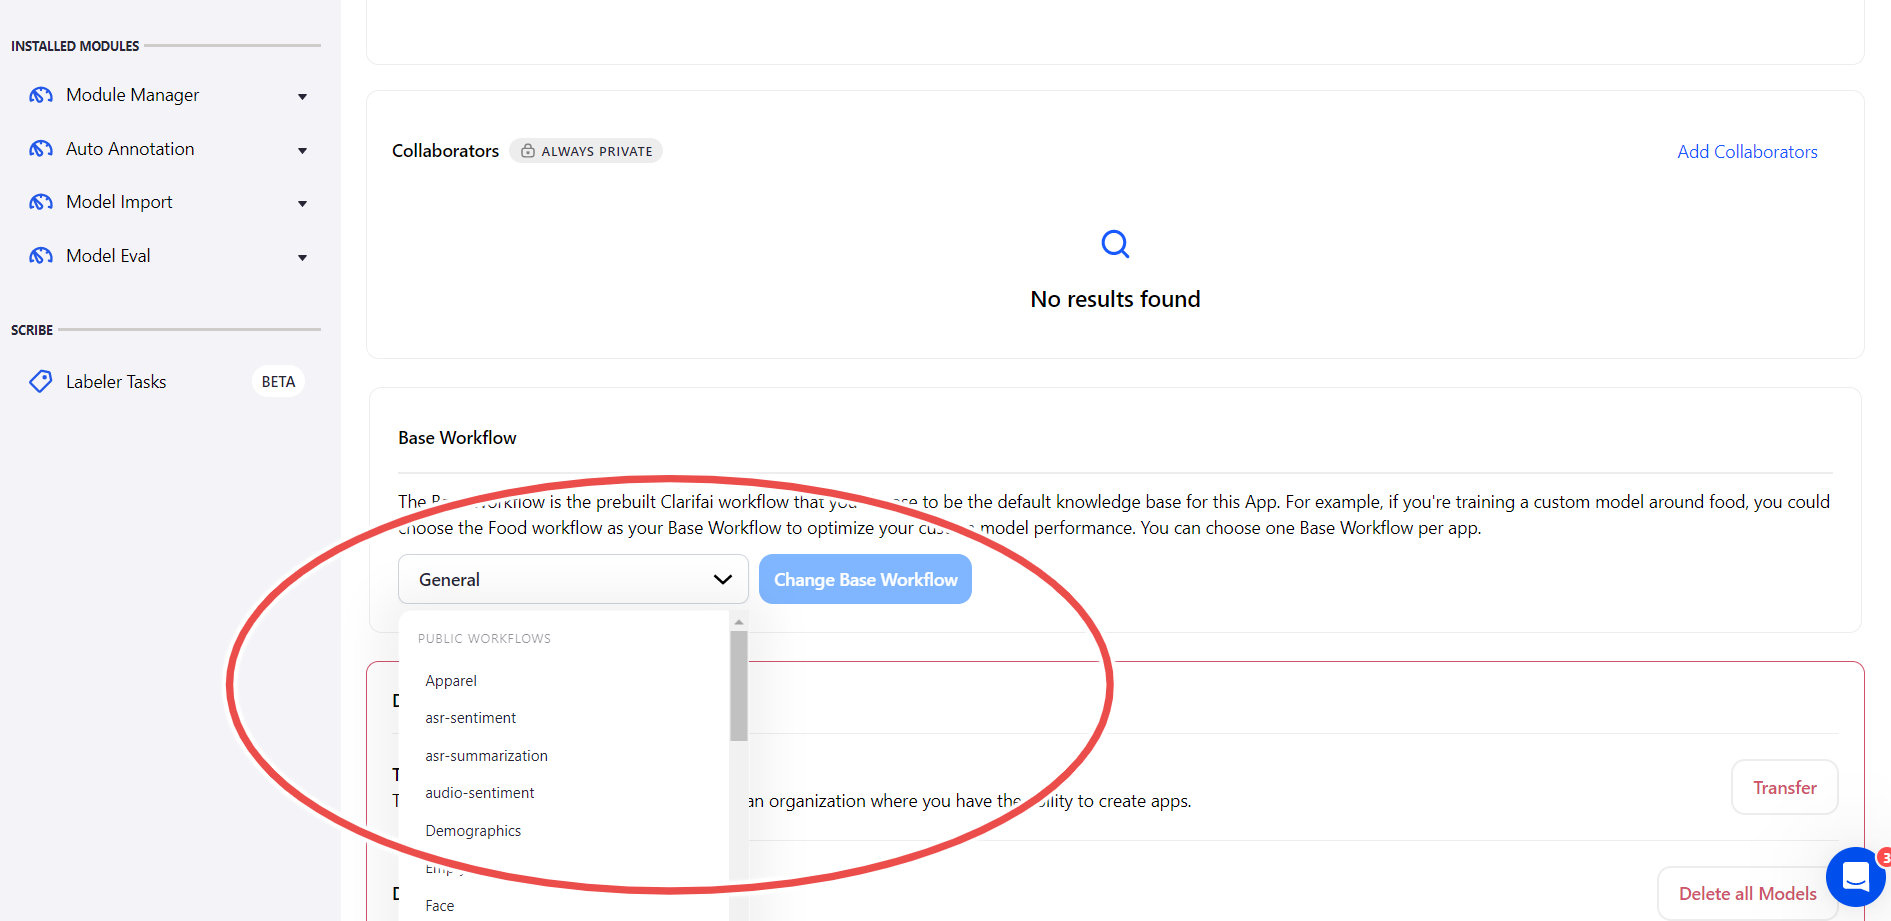
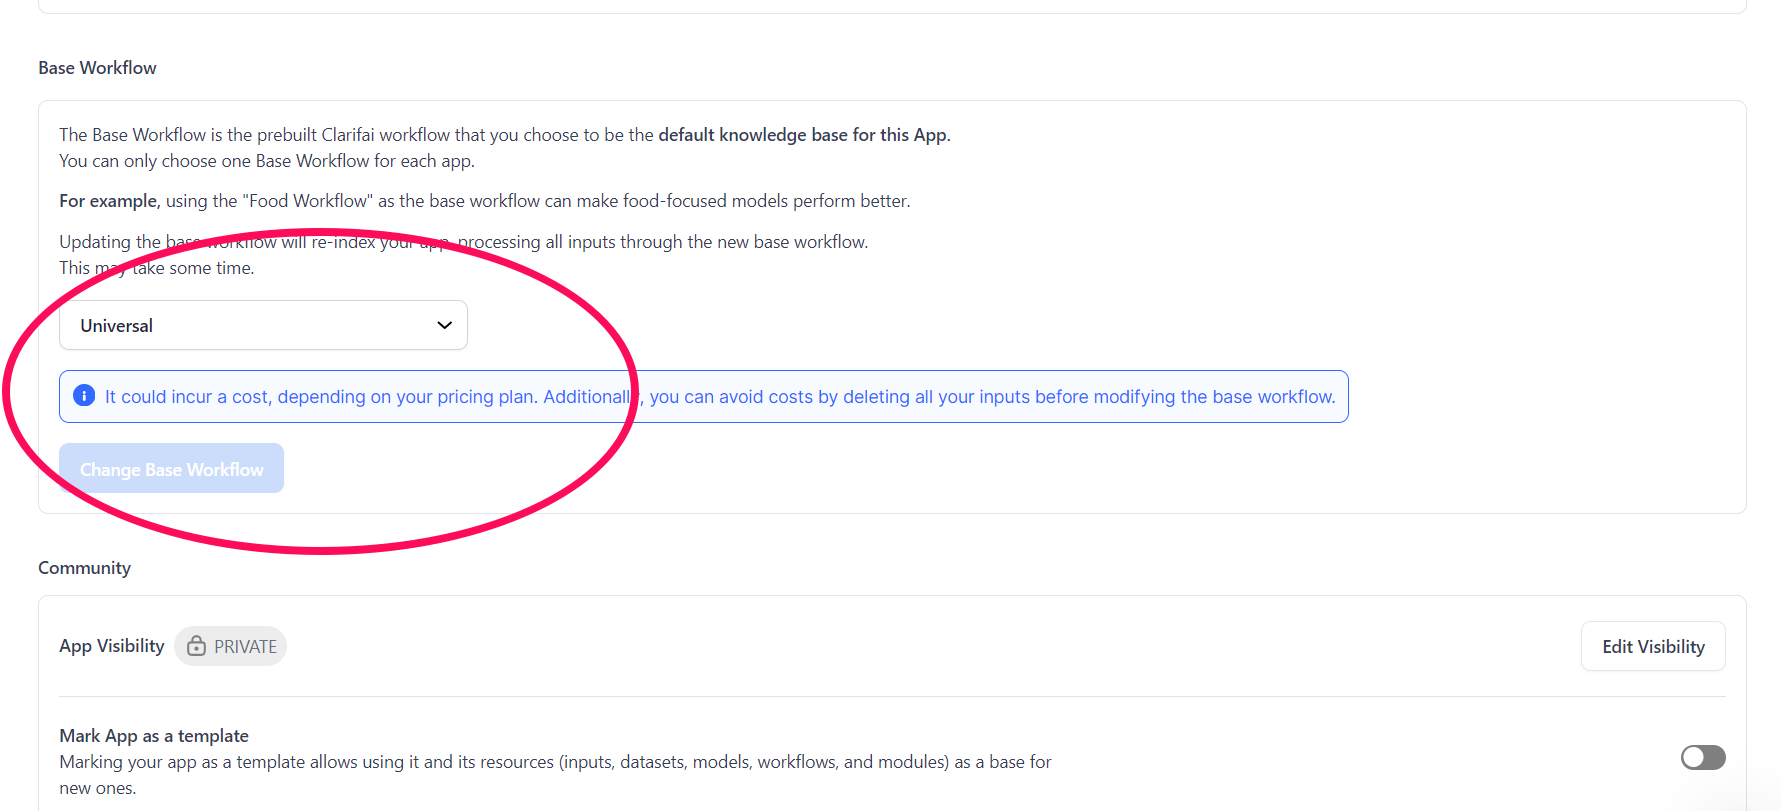
updated several pages

diff --git a/docs/clarifai-basics/applications/application-settings.md b/docs/clarifai-basics/applications/application-settings.md
@@ -1,12 +1,39 @@
 ---
-description: How to change the settings of an application
+description: How to view and change the settings of an application
 sidebar_position: 2
 ---
 
-# Application Settings
+# App Overview and Settings
 
-**How to change an application's settings**
+**View and change an application's settings**
 <hr />
+
+## App Overview
+
+The App Overview page gives a glimpse of your app and its purpose. To access it, go to your application's individual page and select the **Overview** option on the collapsible left sidebar.
+
+You'll be redirected to a page that gives an overview of the contents of your app. 
+
+![app overview](/img/app_overview_page.png)
+
+You can accomplish various tasks on that page. 
+
+-   Click the pencil icon next to the app ID to change it. 
+-	Click the **Edit Visibility** button at the upper-right corner to edit the visibility of your app to either public or private.
+-	Click the star icon at the upper-right corner to highlight your app. This marks it as a favorite and makes it easier to access among other listed apps. 
+-	Click the three dots at the upper-right corner to reveal a drop-down list that lets you duplicate the app, copy its ID, or delete it.
+-	View the number of each type of resource contained in your app—inputs, datasets, models, workflows, and modules. If the number is large and has been truncated in the display, click on the tooltip (?) to reveal the precise count of the resource.   
+- Click the plus icon (**+**) within any resource type section to add the resource to your app. If you click the button, you’ll be redirected to a subsequent page that allows you to add the resource you want. 
+- Click the "view" link within any resource type section to view all the respective resources available in your app.
+-	Add notes that describe what your app is about. 
+-	Upload a cover image and use it as a reference for the app. 
+-	Edit the app’s description.
+-	View the app’s base workflow, last updated date, and default language.
+-	Copy the app's URL and share it across various platforms and social media channels for wider visibility and reach.
+-	View the types of models contained in the app.
+-	View and edit the [collaborators](https://docs.clarifai.com/clarifai-basics/applications/collaboration) associated with the app. 
+
+## App Settings
 
 You can change the settings of an application at any time. To do so, go to the application's individual page and select the **Settings** option on the collapsible left sidebar.
 
@@ -22,9 +49,9 @@ This page has intuitive elements that let you search for specific items and sort
 
 :::
 
-## API Keys
+### API Keys
 
-### Create API Keys
+#### Create API Keys
 
 Click the **Create API Key** button to add a new API key to your app. Then, use the form that pops up to generate a new API key—provide a short description, select the scopes, and click the **Confirm** button. 
 
@@ -32,33 +59,33 @@ Click the **Create API Key** button to add a new API key to your app. Then, use 
 
 The new [app-specific key](https://docs.clarifai.com/clarifai-basics/authentication/app-specific-api-keys) will be listed in the **API Keys** section, where you can carry out various management tasks on it. 
 
-### Copy an API Key
+#### Copy an API Key
 
 You can copy an API key to the clipboard by clicking the copy button.
 
 ![copy an api key](/img/application_settings_2.png)
 
-### Show an API Key
+#### Show an API Key
 
 You can reveal an API key by clicking the show button. You can also hide it by clicking the same button. 
 
 ![show api key](/img/application_settings_3.png)
 
-### Edit an API Key
+#### Edit an API Key
 
 You can edit an API key by clicking the edit button. A form will pop up that allows you to update the description and scopes of your API key. 
 
 ![edit an api key](/img/application_settings_4.png)
 
-### Delete an API Key
+#### Delete an API Key
 
 You can delete an API key by clicking the delete button.
 
 ![delete an api key](/img/application_settings_5.png)
 
-## Collaborators
+### Collaborators
 
-### Add Collaborators
+#### Add Collaborators
 
 To add a collaborator to your app, click the **Add Collaborators** button. Then, use the form that pops up to invite a collaborator—provide an email address associated with their Clarifai account, select the scopes, and click the **Confirm** button. 
 
@@ -70,19 +97,19 @@ The collaborator you want to invite must have a registered account on the Clarif
 
 ![add a collaborator](/img/application_settings_6.png)
 
-### Delete a Collaborator
+#### Delete a Collaborator
 
 You can remove a collaborator by clicking the delete button.
 
 ![delete a collaborator](/img/application_settings_7.png)
 
-## Base Workflow
+### Base Workflow
 
-A Base Workflow is the workflow you choose as the default knowledge base when creating an application. It optimizes your custom model performance.
+A base workflow is the workflow you choose as the default knowledge base when creating an application. It optimizes your custom model performance.
 
 You can change your app's base workflow by selecting another one from the list that drops down when you click the workflows search box. You can choose public workflows or workflows you've created in your app. 
 
-:::info
+:::note
 
 Updating the base workflow will re-index your app, processing all inputs through the new base workflow. This may take some time, and could incur costs. You could avoid the costs by deleting all your inputs before updating the base workflow.
 
@@ -92,19 +119,25 @@ After selecting your preferred Base Workflow, click the **Change Base Workflow**
 
 ![change base workflow](/img/application_settings_8.png) 
 
+:::info
+
+[Click here](https://docs.clarifai.com/portal-guide/workflows/base-workflows) to learn more about the base workflow functionality. 
+
+:::
+
 :::warning
 
 Performing any of the actions below is dangerous. So, you need to proceed with caution. 
 
 :::
 
-## Update Visibility
+### Update Visibility
 
 You can easily toggle your app's visibility between private and public modes by clicking the **Update Visibility** button.
 
 ![update visibility](/img/application_settings_update_visibility.png) 
 
-## Delete Application
+### Delete Application
 
 You can delete the application by clicking the **Delete App** button. A small window will pop up, prompting you to confirm the action. 
 
@@ -112,13 +145,13 @@ You can delete the application by clicking the **Delete App** button. A small wi
 
 Remember that once you delete an application, we cannot recover it. You will also lose all images, concepts, models, and other resources associated with that application. 
 
-## Delete all Models
+### Delete all Models
 
 You can delete all models by clicking the **Delete all Models** button. A small window will pop up, prompting you to confirm the action. 
 
 ![delete all models](/img/application_settings_10.png)
 
-## Transfer Application
+### Transfer Application
 
 You can transfer your application to an [organization](https://docs.clarifai.com/portal-guide/clarifai-organizations/) you belong to and have permission to create apps. This would greatly enhance collaboration and boost your productivity.
 

diff --git a/docs/portal-guide/workflows/base-workflows.md b/docs/portal-guide/workflows/base-workflows.md
@@ -10,18 +10,39 @@ sidebar_position: 3
 **Base workflows index your data and provide your app with a default knowledge base**
 <hr />
 
-The Base Workflow includes one pre-built Clarifai model that provides the basic structure for indexing your data. The Base Workflow gives you a "head start" when working with your data—by pre-indexing your inputs for search and by providing a default embedding for your custom models. Your base workflow is what makes your data sortable and searchable as soon as it is uploaded. 
+The base workflow acts as the default knowledge base for your app and provides the basic structure for indexing your data. It gives you a "head start" when working with your data—by pre-indexing your inputs for search and by providing a default embedding for your custom models.
 
-Choose a base workflow that you can build upon to create a custom solution. For example, if you're training a custom model around food, you could choose the Food model as your Base Workflow to optimize your custom model performance.
+## How it works
 
-You can choose one Base Workflow per app, and you can also change your base workflow once your app is created. 
+Your base workflow makes your data sortable and searchable as soon as it is uploaded. When you add an input to your app, the base workflow of your app computes the outputs from the model(s) in that workflow and indexes those outputs.
+
+Those indexed outputs enable search and transfer-learn based training on top of the base workflow model(s).
+
+## How to choose a base workflow
+
+You should go for a workflow that optimizes your custom model performance. For example, if you're training a custom model around food, you could choose the **Food** model as your **Base Workflow** to yield better results.
+
+You can choose a base workflow when [creating a new application](https://docs.clarifai.com/clarifai-basics/applications/create-an-application/). After selecting the primary input type for your app, the base workflow will be automatically selected for you—within the collapsible **Advanced Settings** field. 
+
+Alternatively, you can select the one that aligns most with your specific use case from the dropdown list accessible when you click the workflows search box.
 
 ![choose base workflow](/img/community_2/base_workflow_choose.png)
 
-You can change it on the **App Settings** page. 
+## How to change a base workflow
+
+You can also change the base workflow once your app is created. You can choose public workflows or workflows you've created in your app. 
+
+To change it, go to your [**App Settings**](https://docs.clarifai.com/clarifai-basics/applications/application-settings#base-workflow) page and select the one you prefer from the list that drops down when you click the workflows search box. 
+
+After selecting your preferred base workflow, click the **Change Base Workflow** button.
+
+:::note
+
+Updating the base workflow will re-index your app, processing all inputs through the new base workflow. This may take some time, and could incur costs. You could avoid the costs by deleting all your inputs before updating the base workflow.
+
+:::
 
 ![change base workflow](/img/community_2/base_workflow_change.png)
-
 
 
 

diff --git a/docs/api-guide/predict/llms.md b/docs/api-guide/predict/llms.md
@@ -20,6 +20,9 @@ The initialization code used in the following examples is outlined in detail on 
 
 :::tip
 
+<!--- [Click here]( https://docs.google.com/document/d/1JnZqqSeXpKFH4zh-go0udtUslXTqpPg0y-uUZExGa-E/edit#heading=h.msg9apiqll5r) to explore a list of LLM models available on the Clarifai Community platform. It's important to distinguish between Clarifai-hosted models, which we host within our Clarifai Cloud, and wrapped models, which are hosted externally but we deploy them on our platform using third-party API keys. When utilizing a wrapped model, your user data is transmitted to the third-party provider in addition to our own data. There are also differentiating pricing structures we employ for these two types of models. 
+-->
+
 For the third-party models we've wrapped into our platform, like those provided by OpenAI, Anthropic, Cohere, and others, you can also choose to utilize their API keys as an option—in addition to using the default Clarifai keys. You can learn how to add them [here](https://docs.clarifai.com/api-guide/predict/text#use-third-party-api-keys). 
 
 :::

diff --git a/docs/api-guide/model/custom-text-model-walkthrough.md b/docs/api-guide/model/custom-text-model-walkthrough.md
@@ -24,7 +24,7 @@ For debugging purposes, each response returned by a method call can be printed t
 
 ## Create a New Application
 
-The first step is manual. In the Clarifai Portal, [create a new application](https://docs.clarifai.com/clarifai-basics/applications/create-an-application) with **Text/Document** selected as the primary input type. The Base Workflow will be automatically selected for you. 
+The first step is manual. In the Clarifai Portal, [create a new application](https://docs.clarifai.com/clarifai-basics/applications/create-an-application) with **Text/Document** selected as the primary input type. The [Base Workflow](https://docs.clarifai.com/portal-guide/workflows/base-workflows/) will be automatically selected for you. 
 
 <!--
 ![](https://s3.amazonaws.com/clarifai-api/img3/prod/large/e12ce254f2824b0ab2aef1b10784ff23/3e695b780f597cd263b06d0aeb30b3d1?v=001)

diff --git a/docs/portal-guide/portal-overview.md b/docs/portal-guide/portal-overview.md
@@ -40,6 +40,7 @@ You can effortlessly find what you need by searching through your own and Commun
 
 - Multiple-word queries function as an "OR" (e.g., "face detection" yields results with both "face" and "detection"). 
 - Dashes (-) are treated as spaces since spaces aren't allowed in resource IDs. 
+- Dashes are added to search queries between texts and numbers. For instance, if the search query is "llama70b" or "gpt4," we also consider "llama-70-b" or "gpt-4" in the search results.
 - Partial-word searches, such as "fac," return results containing relevant terms like "face-detection."
 
 All resources are searchable by:

diff --git a/docs/api-guide/search/rank.md b/docs/api-guide/search/rank.md
@@ -271,7 +271,7 @@ If the input has been indexed, we can use the input ID. If there are multiple em
 
 ## Search by Text Similarity
 
-You can use texts to search through your collection. The API will return ranked results based on how similar the results are to the text you provided in your query.
+You can use texts to search through your collection of text. The text-to-text search will return ranked results based on how similar the results are to the text you provided in your query.
 
 :::tip 
 

diff --git a/docs/clarifai-basics/applications/create-an-application.md b/docs/clarifai-basics/applications/create-an-application.md
@@ -8,6 +8,8 @@ sidebar_position: 1
 **How to create a Clarifai application**
 <hr />
 
+On Clarifai, [apps](https://docs.clarifai.com/clarifai-basics/applications/) act as a central repository for models, datasets, inputs and other resources and information. 
+
 ## Create an Application on the Portal
 
 To create an application, [log in](https://clarifai.com/login) to your account and click the **Create an App** button at the upper-right section of the navigation bar.
